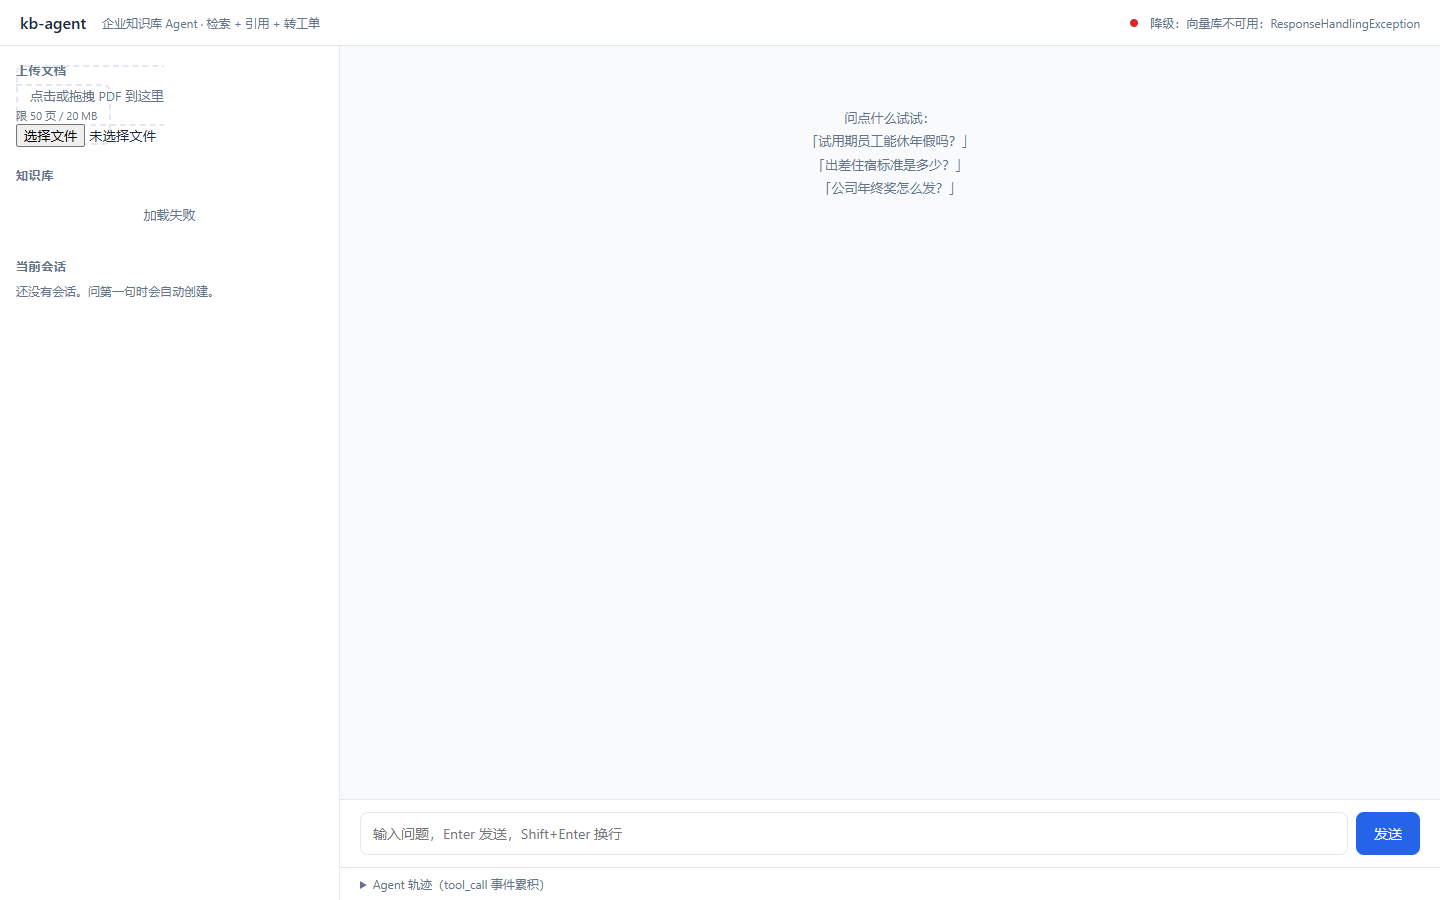
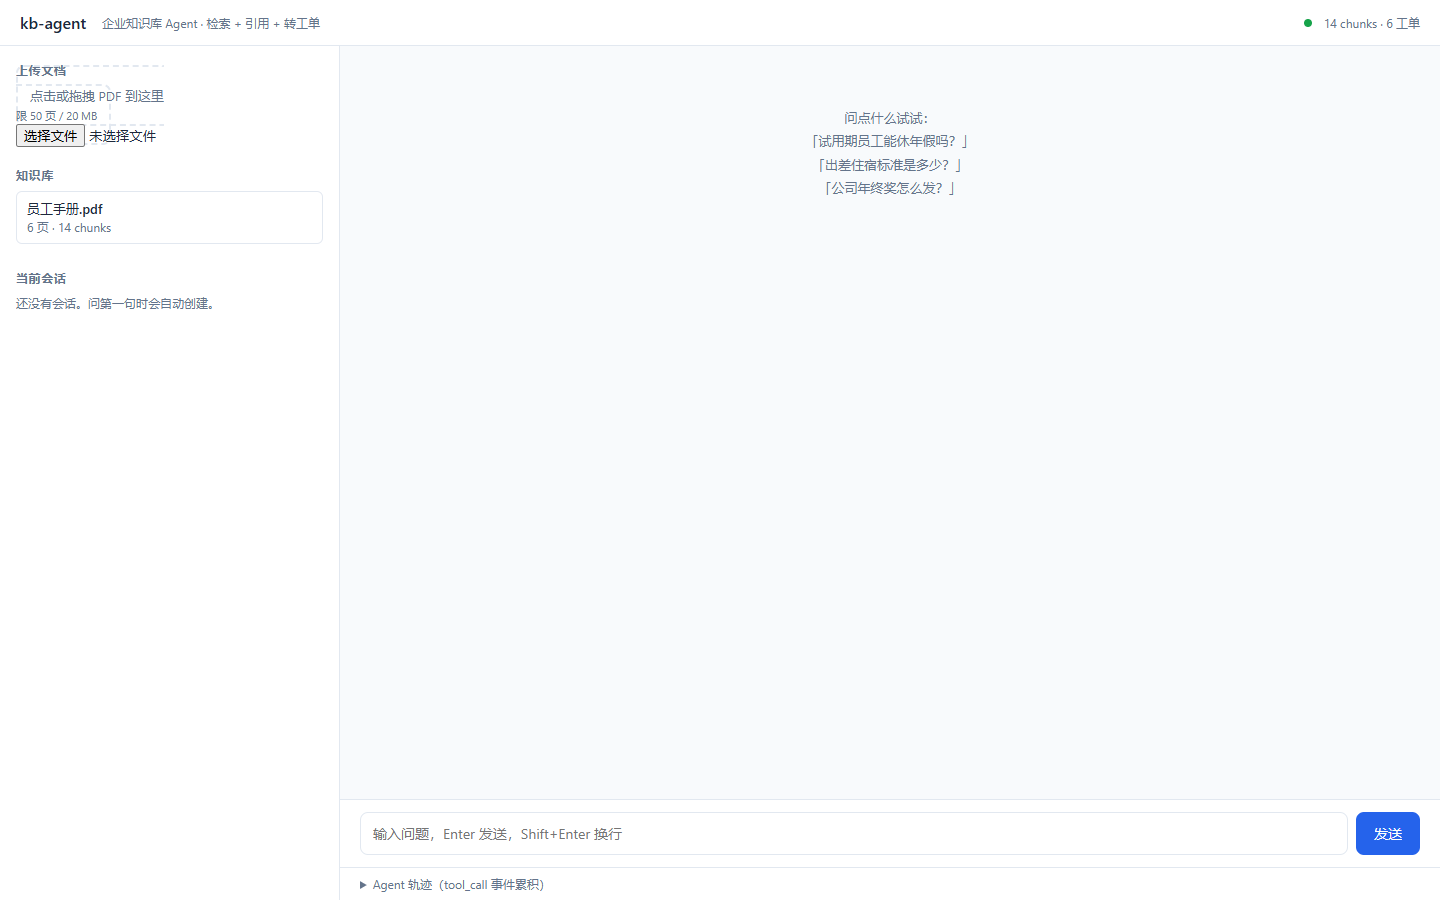
feat(web): clickable citations with bidirectional jump; fix fallback overwriting done data

Changed region(s): [[0.0, 0.2178, 0.1562, 0.3422], [0.7812, 0.0, 1.0, 0.0311], [0.0938, 0.2178, 0.125, 0.2489]]

diff --git a/app/static/index.html b/app/static/index.html
@@ -166,7 +166,13 @@
     border-radius: 6px;
     padding: 8px 10px;
     font-size: 12px;
+    cursor: pointer;
+    transition: background .2s, border-color .2s;
   }
+  .citation:hover { border-color: var(--primary); }
+  /* 双向定位的高亮：答案里的 [n] 和引用卡片都闪一下 */
+  .flash { background: #fef08a !important; transition: background .2s; }
+  .cite-ref { cursor: pointer; color: var(--primary); font-weight: 600; }
   .citation .head {
     display: flex;
     gap: 8px;
@@ -360,6 +366,10 @@ function escapeHtml(s) {
  *  先 escape 再替换，顺序反了会有 XSS。 */
 function miniMarkdown(text) {
   let html = escapeHtml(text);
+  // 把 [n] 变成可点击的锚点，点击后跳到对应引用卡片。
+  // 必须在 escapeHtml 之后——escapeHtml 不会动方括号，顺序无关但统一放前面。
+  html = html.replace(/\[(\d{1,3})\]/g,
+    '<span class="cite-ref" data-cite="$1">[$1]</span>');
   html = html.replace(/\*\*(.+?)\*\*/g, "<strong>$1</strong>");
   // 连续的 "- xxx" 行包成 <ul>
   html = html.replace(/(?:^|\n)((?:[-*] .+\n?)+)/g, (m, block) => {
@@ -369,6 +379,24 @@ function miniMarkdown(text) {
   });
   html = html.replace(/\n/g, "<br>");
   return html;
+}
+
+/** 点击引用卡片 → 滚动到答案里对应的 [n] 并高亮。 */
+function jumpToRef(index) {
+  const ref = document.querySelector(`.cite-ref[data-cite="${index}"]`);
+  if (!ref) return;
+  ref.scrollIntoView({ behavior: "smooth", block: "center" });
+  ref.classList.add("flash");
+  setTimeout(() => ref.classList.remove("flash"), 1200);
+}
+
+/** 点击答案里的 [n] → 滚动到对应引用卡片并高亮。 */
+function jumpToCitation(index) {
+  const card = document.querySelector(`.citation[data-cite="${index}"]`);
+  if (!card) return;
+  card.scrollIntoView({ behavior: "smooth", block: "center" });
+  card.classList.add("flash");
+  setTimeout(() => card.classList.remove("flash"), 1200);
 }
 
 function scrollToBottom() {
@@ -504,7 +532,13 @@ function appendAgentMessage() {
     setCitations(list) { renderCitations(cites, list); },
     finish(payload) {
       bubble.classList.remove("cursor");
-      if (raw) bubble.innerHTML = miniMarkdown(raw);
+      if (raw) {
+        bubble.innerHTML = miniMarkdown(raw);
+        // 答案重新渲染过，锚点监听要重新绑
+        bubble.querySelectorAll(".cite-ref").forEach(node => {
+          node.addEventListener("click", () => jumpToCitation(node.dataset.cite));
+        });
+      }
       const bits = [
         payload.stop_reason,
         `${payload.steps} 步`,
@@ -526,10 +560,11 @@ function appendAgentMessage() {
   };
 }
 
-/** 引用是「整体替换」语义：每次收到 citation 事件就重画整个列表。 */
+/** 引用是「整体替换」语义：每次收到 citation 事件就重画整个列表。
+ *  重画后要重新绑点击——innerHTML 会把监听器一起清掉。 */
 function renderCitations(container, list) {
   container.innerHTML = list.map(c => `
-    <div class="citation">
+    <div class="citation" data-cite="${c.index}" title="点击定位到答案中的 [${c.index}]">
       <div class="head">
         <span class="idx">[${c.index}]</span>
         <span>${escapeHtml(c.doc_name)} · p.${c.page_no ?? "?"}</span>
@@ -538,6 +573,10 @@ function renderCitations(container, list) {
       <div class="snippet">${escapeHtml(c.snippet || "")}</div>
     </div>
   `).join("");
+
+  container.querySelectorAll(".citation").forEach(card => {
+    card.addEventListener("click", () => jumpToRef(card.dataset.cite));
+  });
 }
 
 function appendTrace(name, args) {
@@ -574,6 +613,9 @@ function renderSession() {
 async function askStream(question) {
   const agent = appendAgentMessage();
   state.controller = new AbortController();
+  // 标记是否已经收到 done。没收到才用兜底 finish ——
+  // 否则兜底会盖掉真实数据（实测踩过：页面显示 “0 步 · 0 tokens”）。
+  let finished = false;
 
   try {
     const resp = await fetch("/qa/ask/stream", {
@@ -607,11 +649,18 @@ async function askStream(question) {
       while ((sep = buf.indexOf("\n\n")) >= 0) {
         const rawEvent = buf.slice(0, sep);
         buf = buf.slice(sep + 2);
-        dispatch(rawEvent, agent);
+        if (dispatch(rawEvent, agent)) finished = true;
       }
     }
 
-    agent.finish({ stop_reason: "stream_closed", steps: 0, tokens: 0, latency_ms: 0 });
+    // 流正常结束但没收到 done（比如服务端提前关了连接）：补一个。
+    // 收到过 done 就不动 —— 真实字段比这里的占位值有用得多。
+    if (!finished) {
+      agent.finish({
+        stop_reason: "stream_closed",
+        steps: 0, tokens: 0, latency_ms: 0,
+      });
+    }
   } catch (e) {
     if (e.name === "AbortError") {
       // 用户点了「停止」。服务端会收到 CancelledError 并照常收口，
@@ -635,12 +684,12 @@ function dispatch(rawEvent, agent) {
     else if (line.startsWith("data:")) dataLines.push(line.slice(5).trim());
   }
 
-  if (!dataLines.length) return;
+  if (!dataLines.length) return false;
   let payload;
   try {
     payload = JSON.parse(dataLines.join("\n"));
   } catch {
-    return;   // 半截 JSON，丢掉等下一块——正常情况下不会走到这
+    return false;   // 半截 JSON，丢掉等下一块——正常情况下不会走到这
   }
 
   // 四类事件分别对应界面上的四个区域
@@ -661,11 +710,12 @@ function dispatch(rawEvent, agent) {
         renderSession();
       }
       agent.finish(payload);
-      break;
+      return true;
     case "error":
       agent.fail(payload.detail || "服务端错误");
       break;
   }
+  return false;
 }
 
 // ---------------------------------------------------------------------------

diff --git a/scripts/test_frontend.py b/scripts/test_frontend.py
@@ -112,6 +112,30 @@ async def main() -> None:
         say("")
         await page.screenshot(path=str(SHOTS / "02-first-answer.png"), full_page=True)
 
+        # ---------------- 引用双向定位 ----------------
+        say("## 二·五、引用双向定位")
+        say("")
+        jump_ok = False
+        back_ok = False
+        if cites:
+            try:
+                idx = await page.get_attribute(".citation", "data-cite")
+                await page.click(".citation")
+                await page.wait_for_timeout(400)
+                jump_ok = await page.query_selector(".cite-ref.flash") is not None
+
+                await page.click(f'.cite-ref[data-cite="{idx}"]')
+                await page.wait_for_timeout(400)
+                back_ok = await page.query_selector(".citation.flash") is not None
+            except Exception as exc:      # noqa: BLE001
+                say(f"- 点击异常：{type(exc).__name__}: {exc}")
+        else:
+            say("- 没有引用可点（可能检索失败）")
+        say(f"- 点引用卡片 → 答案里的 [n] 高亮：{'✅' if jump_ok else '❌'}")
+        say(f"- 点答案里的 [n] → 引用卡片高亮：{'✅' if back_ok else '❌'}")
+        say("")
+        await page.screenshot(path=str(SHOTS / "05-citation-jump.png"), full_page=True)
+
         # ---------------- 第二轮 ----------------
         say("## 三、第二轮：会话记忆")
         say("")
@@ -169,6 +193,7 @@ async def main() -> None:
         say("|---|---|")
         say("| `01-home.png` | 初始页面 |")
         say("| `02-first-answer.png` | 第一轮完整答案 + 引用 + trace |")
+        say("| `05-citation-jump.png` | 点击引用后的定位高亮 |")
         say("| `03-second-answer.png` | 第二轮（多轮记忆） |")
         say("| `04-after-stop.png` | 点停止之后 |")
         say("")

diff --git a/docs/FRONTEND_TEST.md b/docs/FRONTEND_TEST.md
@@ -2,44 +2,59 @@
 
 ## 一、页面加载
 
-- health 文本：`降级：向量库不可用：ResponseHandlingException`
+- health 文本：`14 chunks · 6 工单`
 - 页面标题：`kb-agent · 企业知识库问答`
 - JS 错误：无
 
 ## 二、第一轮：流式 + 四类事件
 
-- 采样 60 次，非零 6 次
-- 出现过的不同长度值：[18, 89, 184, 235, 298, 357]
+- 采样 12 次，非零 5 次
+- 出现过的不同长度值：[22, 117, 194, 256, 285]
 - **流式判定：✅ 逐字增长**
 
 | 检查项 | 结果 |
 |---|---|
-| 答案非空 | ✅ (357 字) |
-| tool_call 渲染 | ✅ (4 条) |
-| citation 渲染 | ❌ (0 条) |
-| done 元信息 | ❌ `` |
+| 答案非空 | ✅ (296 字) |
+| tool_call 渲染 | ✅ (2 条) |
+| citation 渲染 | ✅ (2 条) |
+| done 元信息 | ✅ `answered · 2 步 · 4819 tokens · 3153 ms` |
 
 答案开头：
 
 ```text
-**结论：目前无法回答，已转人工处理。**
+可以享有，但转正后才能申请。
 
-**情况说明：**
-- 我尝试检索知识库，分别用“试用期 年假 休假资格”“年假 年休假 天数 规定”“年休假”检索了 3 次，工具都返回连接失败（All connection attempts failed），没有取到任何制度条款。
-- 这属于检索服务故障，并非“手册中没有相关规定”，因此我不能凭印象给你答案，避免误导。
+依据《员工手册》第 3.1 条“年休假”[1]：
 
-**已建工单：** T-2
+试用期包含在劳动合同期限内；试用期员工与正式员工享有同等休假权利；
+但需转正后方可申请年休假；
+年休假天数按累计工作年限确定：满 1 年不满 10 年为 5 天；满 10 年不满 20 年为 10 天；满 20 年为 15 天；
+年假应于当年内使用完毕；因工作原因未安排的，经部门负责人批准可顺延至次年 3 月 31
 ```
+
+## 二·五、引用双向定位
+
+- 点引用卡片 → 答案里的 [n] 高亮：✅
+- 点答案里的 [n] → 引用卡片高亮：✅
 
 ## 三、第二轮：会话记忆
 
-- session 面板：`还没有会话。问第一句时会自动创建。`
+- session 面板：`session_id
+s-a0f910a1e6ff`
 
-- 第二轮答案 0 字
-- **是否引用上文：❌**
+- 第二轮答案 330 字
+- **是否引用上文：✅**
 
 ```text
+病假没有“转正后才能申请”的限制，试用期员工照常请。
 
+依据：
+
+手册适用于公司全体在职员工，包括试用期员工[6]；
+第 3.2 条病假规定中没有设置任何转正门槛，与年休假第 3.1 条“需转正后方可申请”的表述明显不同[1][2]；
+具体规则见第 3.2 条[1]：
+  - 须提供二级以上医院出具的诊断证明与病假条；
+  - 病假期间工资按本人工资的 80% 发放；低于当地最低工资标准的 80%
 ```
 
 ## 四、停止按钮（前端主动断连）
@@ -58,5 +73,6 @@
 |---|---|
 | `01-home.png` | 初始页面 |
 | `02-first-answer.png` | 第一轮完整答案 + 引用 + trace |
+| `05-citation-jump.png` | 点击引用后的定位高亮 |
 | `03-second-answer.png` | 第二轮（多轮记忆） |
 | `04-after-stop.png` | 点停止之后 |
